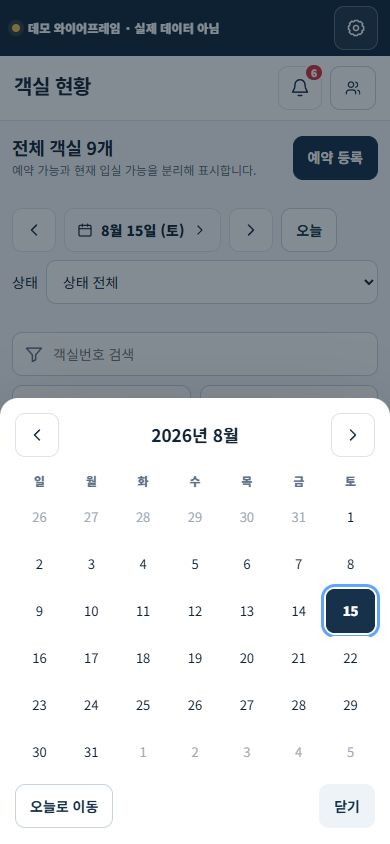
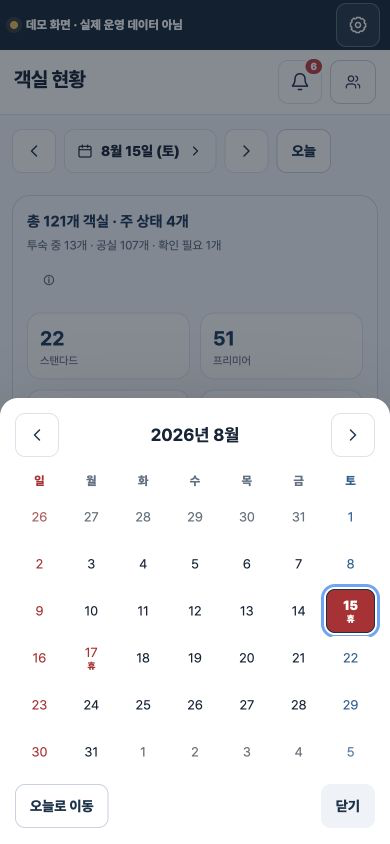
feat: 캘린더 요일 기준을 통일하라

diff --git a/WIREFRAME/index.html b/WIREFRAME/index.html
@@ -694,11 +694,22 @@
     .calendar-head strong { font-size:1.08rem; }
     .calendar-week, .calendar-grid { display:grid; grid-template-columns:repeat(7,minmax(0,1fr)); gap:3px; }
     .calendar-week span { padding:5px 0; color:var(--muted); font-size:12px; font-weight:800; text-align:center; }
-    .calendar-day { min-width:0; min-height:44px; border:0; border-radius:9px; background:#fff; font-size:13px; }
+    .calendar-week .is-sunday, .calendar-week .is-holiday { color:#b4232f; }
+    .calendar-week .is-saturday { color:#1d5f91; }
+    .calendar-day { display:grid; place-items:center; align-content:center; min-width:0; min-height:44px; padding:3px 1px; border:0; border-radius:9px; background:#fff; font-size:13px; line-height:1.05; }
+    .calendar-day.is-sunday, .calendar-day.is-holiday { color:#b4232f; }
+    .calendar-day.is-saturday:not(.is-holiday) { color:#1d5f91; }
     .calendar-day.other { color:#66717c; }
+    .calendar-day.other.is-sunday, .calendar-day.other.is-holiday { color:#a94b55; }
+    .calendar-day.other.is-saturday:not(.is-holiday) { color:#4e7496; }
     .calendar-day.today { box-shadow:inset 0 0 0 1px var(--navy); }
     .calendar-day.selected { color:#fff; background:var(--navy); font-weight:900; }
+    .calendar-day.selected:is(.is-sunday,.is-holiday) { color:#fff; background:#b4232f; }
+    .calendar-day.selected.is-saturday:not(.is-holiday) { color:#fff; background:#1d5f91; }
     .calendar-day.week-selected:not(.selected) { color:#174e78; background:#e5f0fa; font-weight:800; }
+    .calendar-day.week-selected:not(.selected):is(.is-sunday,.is-holiday) { color:#a21f2b; background:#fff0f1; }
+    .calendar-day.week-selected:not(.selected).is-saturday:not(.is-holiday) { color:#175889; background:#edf6ff; }
+    .calendar-holiday-mark { display:block; margin-top:2px; font-size:9px; font-weight:900; line-height:1; letter-spacing:-.02em; }
     .pay-week-calendar-note { margin:-2px 0 10px; color:var(--muted); font-size:12px; text-align:center; }
     .calendar-foot { display:flex; justify-content:space-between; gap:8px; margin-top:10px; }
     .calendar-anchor { position:relative; }
@@ -1398,8 +1409,12 @@
     .quick-room-header span { display:block; color:var(--muted); font-size:10px; font-weight:700; }
     .quick-day-header { display:grid; place-items:center; align-content:center; min-height:58px; padding:5px 2px; border-right:1px solid var(--line); border-bottom:1px solid var(--line-strong); color:#34485e; background:#f8fafc; font-size:11px; line-height:1.25; }
     .quick-day-header strong { font-size:12px; }
-    .quick-day-header.weekend { color:#b43932; background:#fff8f7; }
+    .quick-day-header.is-sunday, .quick-day-header.is-holiday { color:#b4232f; background:#fff7f8; }
+    .quick-day-header.is-saturday:not(.is-holiday) { color:#1d5f91; background:#f4f9ff; }
     .quick-day-header.today { box-shadow:inset 0 -3px 0 #c38a29; color:#7b5209; background:#fff9eb; }
+    .quick-day-header.today:is(.is-sunday,.is-holiday) { color:#a21f2b; background:#fff4f2; }
+    .quick-day-header.today.is-saturday:not(.is-holiday) { color:#175889; background:#edf6ff; }
+    .quick-day-header .calendar-holiday-mark { margin-top:1px; }
     .quick-grid-data-row { min-height:58px; }
     .quick-grid-data-row:hover .quick-room-info, .quick-grid-data-row:hover .quick-date-cell:not(.is-reserved):not(.is-locked) { background:#fbfdff; }
     .quick-room-info { min-height:58px; padding:0; }
@@ -1530,6 +1545,39 @@
       const money = n => new Intl.NumberFormat('ko-KR').format(n) + '원';
       const esc = v => String(v ?? '').replace(/[&<>'"]/g, c => ({'&':'&amp;','<':'&lt;','>':'&gt;',"'":'&#39;','"':'&quot;'}[c]));
       const DEFAULT_CHECKIN_TIME='16:00', DEFAULT_CHECKOUT_TIME='11:00';
+      const CALENDAR_WEEKDAYS=Object.freeze(['일','월','화','수','목','금','토']);
+      const KR_HOLIDAY_FIXTURE=Object.freeze({
+        jurisdiction:'KR',mode:'demo-static',coverage:['2026-01-01','2026-12-31'],verifiedAt:'2026-08-18',
+        sources:Object.freeze([
+          'https://www.kasa.go.kr/bbs/BBSMSTR_000000000010/view.do?nttId=B000000001860Pe2zT3',
+          'https://www.law.go.kr/LSW/lsRvsDocListP.do?chrClsCd=010202&lsId=002404&lsRvsGubun=all',
+          'https://www.nec.go.kr/site/nec/ex/bbs/View.do?bcIdx=289351&cbIdx=1104'
+        ]),
+        dates:Object.freeze({
+          '2026-01-01':{name:'신정',kind:'national'},
+          '2026-02-16':{name:'설날 연휴',kind:'traditional'},
+          '2026-02-17':{name:'설날',kind:'traditional'},
+          '2026-02-18':{name:'설날 연휴',kind:'traditional'},
+          '2026-03-01':{name:'삼일절',kind:'national'},
+          '2026-03-02':{name:'삼일절 대체공휴일',kind:'substitute'},
+          '2026-05-01':{name:'노동절',kind:'national'},
+          '2026-05-05':{name:'어린이날',kind:'national'},
+          '2026-05-24':{name:'부처님오신날',kind:'traditional'},
+          '2026-05-25':{name:'부처님오신날 대체공휴일',kind:'substitute'},
+          '2026-06-03':{name:'제9회 전국동시지방선거',kind:'election'},
+          '2026-06-06':{name:'현충일',kind:'national'},
+          '2026-07-17':{name:'제헌절',kind:'national'},
+          '2026-08-15':{name:'광복절',kind:'national'},
+          '2026-08-17':{name:'광복절 대체공휴일',kind:'substitute'},
+          '2026-09-24':{name:'추석 연휴',kind:'traditional'},
+          '2026-09-25':{name:'추석',kind:'traditional'},
+          '2026-09-26':{name:'추석 연휴',kind:'traditional'},
+          '2026-10-03':{name:'개천절',kind:'national'},
+          '2026-10-05':{name:'개천절 대체공휴일',kind:'substitute'},
+          '2026-10-09':{name:'한글날',kind:'national'},
+          '2026-12-25':{name:'기독탄신일',kind:'national'}
+        })
+      });
 
       function clockTime(value) {
         const matches=[...String(value||'').matchAll(/([01]\d|2[0-3]):([0-5]\d)/g)];
@@ -3253,8 +3301,26 @@
       function dateIso(date) {
         return `${date.getFullYear()}-${String(date.getMonth()+1).padStart(2,'0')}-${String(date.getDate()).padStart(2,'0')}`;
       }
+      function calendarDayMeta(iso) {
+        const value=dateObject(iso),weekday=value.getDay(),holiday=KR_HOLIDAY_FIXTURE.dates[iso]||null,isSunday=weekday===0,isSaturday=weekday===6;
+        return {
+          weekday,weekdayLabel:CALENDAR_WEEKDAYS[weekday],holiday,isSunday,isSaturday,
+          tone:holiday?'holiday':isSunday?'sunday':isSaturday?'saturday':'weekday',
+          classes:[isSunday?'is-sunday':'',isSaturday?'is-saturday':'',holiday?'is-holiday':''].filter(Boolean).join(' ')
+        };
+      }
+      function calendarWeekdayHeaderMarkup() {
+        return CALENDAR_WEEKDAYS.map((label,index)=>`<span class="${index===0?'is-sunday':index===6?'is-saturday':''}">${label}</span>`).join('');
+      }
+      function calendarDateAriaLabel(iso,{today=false,weekSelected=false}={}) {
+        const value=dateObject(iso),meta=calendarDayMeta(iso),parts=[`${value.getFullYear()}년 ${value.getMonth()+1}월 ${value.getDate()}일 ${meta.weekdayLabel}요일`];
+        if(meta.holiday)parts.push(meta.holiday.name);
+        if(today)parts.push('오늘');
+        if(weekSelected)parts.push('선택 주차');
+        return parts.join(', ');
+      }
       function dateLabel(value=state.selectedDate) {
-        const d=dateObject(value), day=['일','월','화','수','목','금','토'][d.getDay()];
+        const d=dateObject(value), day=CALENDAR_WEEKDAYS[d.getDay()];
         return `${d.getMonth()+1}월 ${d.getDate()}일 (${day})`;
       }
       function weekStartIso(value) {
@@ -3299,13 +3365,13 @@
         const constrainedWeekMode=['admin-pay','maid-pay','work-history'].includes(state.calendarContext),weekMode=constrainedWeekMode||state.calendarContext==='reservation-week';
         const weekSelectedStart=state.calendarContext==='admin-pay'?state.adminPayWeek:state.calendarContext==='maid-pay'?(state.maidPaySelectedWeek||state.maidPayOpenWeek||'2026-08-03'):state.calendarContext==='reservation-week'?state.reservationWeekStart:state.workHistoryWeek;
         const latestWeek=state.calendarContext==='work-history'?'2026-08-17':'2026-08-10';
-        const first=new Date(year,month-1,1), offset=weekMode?(first.getDay()+6)%7:first.getDay(), start=new Date(year,month-1,1-offset);
+        const first=new Date(year,month-1,1),offset=first.getDay(),start=new Date(year,month-1,1-offset);
         const days=Array.from({length:42},(_,i)=>{const d=new Date(start);d.setDate(start.getDate()+i);return d;});
         return `<div class="calendar-backdrop" data-action="calendar-backdrop"><section class="calendar-dialog" role="dialog" aria-modal="true" aria-labelledby="calendar-title">
           <div class="calendar-head"><button class="icon-btn" type="button" data-action="calendar-month" data-offset="-1" aria-label="이전 달">${icon('chevronLeft')}</button><strong id="calendar-title">${year}년 ${month}월</strong><button class="icon-btn" type="button" data-action="calendar-month" data-offset="1" aria-label="다음 달">${icon('chevronRight')}</button></div>
           ${weekMode?`<p class="pay-week-calendar-note">날짜를 누르면 그 날짜가 포함된 월요일–일요일 주차를 선택합니다.</p>`:''}
-          <div class="calendar-week" aria-hidden="true">${(weekMode?['월','화','수','목','금','토','일']:['일','월','화','수','목','금','토']).map(v=>`<span>${v}</span>`).join('')}</div>
-          <div class="calendar-grid">${days.map(d=>{const iso=dateIso(d), other=d.getMonth()!==month-1, today=iso==='2026-08-15', weekSelected=weekMode&&weekStartIso(iso)===weekSelectedStart, selected=weekMode?iso===weekSelectedStart:iso===state.selectedDate, future=constrainedWeekMode&&weekStartIso(iso)>latestWeek;return `<button type="button" class="calendar-day ${other?'other':''} ${today?'today':''} ${weekSelected?'week-selected':''} ${selected?'selected':''}" data-action="calendar-select" data-date="${iso}" ${weekMode?`aria-pressed="${weekSelected}"`:`aria-current="${selected?'date':'false'}"`} aria-label="${d.getFullYear()}년 ${d.getMonth()+1}월 ${d.getDate()}일${today?' 오늘':''}${weekSelected?' 선택 주차':''}" ${future?'disabled':''}>${d.getDate()}</button>`;}).join('')}</div>
+          <div class="calendar-week" aria-hidden="true">${calendarWeekdayHeaderMarkup()}</div>
+          <div class="calendar-grid">${days.map(d=>{const iso=dateIso(d),meta=calendarDayMeta(iso),other=d.getMonth()!==month-1,today=iso==='2026-08-15',weekSelected=weekMode&&weekStartIso(iso)===weekSelectedStart,selected=weekMode?iso===weekSelectedStart:iso===state.selectedDate,future=constrainedWeekMode&&weekStartIso(iso)>latestWeek;return `<button type="button" class="calendar-day ${meta.classes} ${other?'other':''} ${today?'today':''} ${weekSelected?'week-selected':''} ${selected?'selected':''}" data-action="calendar-select" data-date="${iso}" ${weekMode?`aria-pressed="${weekSelected}"`:`aria-current="${selected?'date':'false'}"`} aria-label="${esc(calendarDateAriaLabel(iso,{today,weekSelected}))}" ${meta.holiday?`title="${esc(meta.holiday.name)}"`:''} ${future?'disabled':''}><span>${d.getDate()}</span>${meta.holiday?'<small class="calendar-holiday-mark" aria-hidden="true">휴</small>':''}</button>`;}).join('')}</div>
           <div class="calendar-foot">${button(weekMode?'이번 주':'오늘로 이동','calendar-today','outline')}${button('닫기','calendar-close','soft')}</div>
         </section></div>`;
       }
@@ -3450,7 +3516,7 @@
         return `${value.getFullYear()}-${String(value.getMonth()+1).padStart(2,'0')}`;
       }
       function quickMonthLabel(month=state.quickReservationMonth) { const [year,monthNumber]=String(month).split('-').map(Number);return `${year}년 ${monthNumber}월`; }
-      function quickDateLabel(iso) { const value=dateObject(iso),day=['일','월','화','수','목','금','토'][value.getDay()];return `${value.getMonth()+1}월 ${value.getDate()}일 (${day})`; }
+      function quickDateLabel(iso) { const value=dateObject(iso),day=CALENDAR_WEEKDAYS[value.getDay()];return `${value.getMonth()+1}월 ${value.getDate()}일 (${day})`; }
       function quickRangeLabel(reservation) {
         const start=dateObject(reservation.checkInAt.slice(0,10)),end=dateObject(reservation.checkOutAt.slice(0,10));
         return `${start.getMonth()+1}/${start.getDate()} ${reservation.checkInAt.slice(11,16)} → ${end.getMonth()+1}/${end.getDate()} ${reservation.checkOutAt.slice(11,16)}`;
@@ -3704,7 +3770,7 @@
       }
       function renderQuickReservation() {
         const dates=quickMonthDates(),rooms=quickFilteredRooms(),monthReservations=activeReservationsFor(state).filter(item=>reservationInMonth(item)),bookedRooms=new Set(monthReservations.map(item=>item.room)),bookedNights=monthReservations.reduce((total,reservation)=>total+dates.filter(date=>reservationContainsNight(reservation,date)).length,0),blockedRooms=ROOMS.filter(room=>quickRoomBlockReason(room)).length;
-        const headers=dates.map(iso=>{const value=dateObject(iso),weekend=[0,6].includes(value.getDay()),today=iso==='2026-08-16';return `<div class="quick-day-header ${weekend?'weekend':''} ${today?'today':''}" role="columnheader" aria-label="${esc(quickDateLabel(iso))}"><strong>${value.getDate()}일</strong><span>${['일','월','화','수','목','금','토'][value.getDay()]}</span></div>`;}).join('');
+        const headers=dates.map(iso=>{const value=dateObject(iso),meta=calendarDayMeta(iso),today=iso==='2026-08-16';return `<div class="quick-day-header ${meta.classes} ${today?'today':''}" role="columnheader" aria-label="${esc(calendarDateAriaLabel(iso,{today}))}" ${meta.holiday?`title="${esc(meta.holiday.name)}"`:''}><strong>${value.getDate()}일</strong><span>${meta.weekdayLabel}</span>${meta.holiday?'<small class="calendar-holiday-mark" aria-hidden="true">휴</small>':''}</div>`;}).join('');
         const rows=rooms.map((room,rowIndex)=>{const type=ROOM_TYPES[room.type],blocked=quickRoomBlockReason(room);return `<div class="quick-grid-row quick-grid-data-row" role="row" aria-rowindex="${rowIndex+2}" data-quick-row="${room.no}"><div class="quick-room-info ${blocked?'row-locked':''}" role="rowheader"><button class="quick-room-link" type="button" tabindex="${rowIndex===0?'0':'-1'}" data-action="room-detail" data-id="${room.no}" aria-label="${room.no}호 객실 상세 열기"><span class="quick-room-number">${room.no}호</span><span class="quick-room-copy"><strong>${esc(type.name)} · ${esc(room.elevator||'미기재')}</strong>${blocked?`<span class="quick-room-block">${esc(blocked)}</span>`:''}</span></button></div>${dates.map((iso,dayIndex)=>quickCellMarkup(room,iso,rowIndex,dayIndex)).join('')}</div>`;}).join('');
         const grid=rooms.length?`<div class="quick-grid" role="grid" aria-label="${esc(quickMonthLabel())} 객실별 간편 예약" aria-rowcount="${rooms.length+1}" aria-colcount="${dates.length+1}" style="--quick-days:${dates.length}"><div class="quick-grid-row quick-grid-header" role="row"><div class="quick-room-header" role="columnheader">객실 · 유형 · 엘베</div>${headers}</div>${rows}</div>`:`<div class="quick-empty-state"><div><h3>조건에 맞는 객실이 없습니다</h3><p>검색어 또는 객실 유형 필터를 바꿔 주세요.</p></div></div>`;
         return renderCoach()+renderNetworkNotice()+`<div class="quick-booking-page"><section class="card quick-booking-hero"><div class="quick-booking-hero-copy"><span class="quick-booking-kicker">빠른 예약 입력</span><h2>날짜 범위를 한 번에 드래그해 예약을 접수하세요</h2><p>한 번의 드래그는 예약 한 건입니다. 바로 옆을 다시 드래그해도 합쳐지지 않아 1박·1박·연박을 그대로 구분합니다.</p></div><div class="quick-booking-boundary"><strong>데모 와이어프레임 · 실제 데이터 아님</strong>외부 OTA/PMS 예약 원본은 변경하지 않습니다.</div></section><section class="card quick-booking-toolbar" aria-label="간편 예약 필터"><div class="quick-month-tools"><button class="icon-btn" type="button" data-action="quick-month-shift" data-offset="-1" aria-label="이전 달">${icon('chevronLeft')}</button><div class="quick-month-label">${icon('calendar','icon-sm')}${esc(quickMonthLabel())}</div><button class="icon-btn" type="button" data-action="quick-month-shift" data-offset="1" aria-label="다음 달">${icon('chevronRight')}</button><button class="btn btn-outline" type="button" data-action="quick-month-today">오늘</button></div><label class="quick-toolbar-field">객실번호 검색<input class="input-control" type="search" inputmode="numeric" data-control="quick-reservation-search" value="${esc(state.quickReservationSearch)}" placeholder="예: 516" autocomplete="off"></label><label class="quick-toolbar-field">객실 유형<select class="select-control" data-control="quick-reservation-type"><option value="all">유형 전체</option>${Object.entries(ROOM_TYPES).map(([id,type])=>`<option value="${id}" ${state.quickReservationType===id?'selected':''}>${esc(type.name)}</option>`).join('')}</select></label></section><section class="card quick-booking-summary" aria-label="${esc(quickMonthLabel())} 예약 요약"><div><span>예약 건수</span><strong>${monthReservations.length}건</strong><small>각 드래그 1건</small></div><div><span>예약 객실</span><strong>${bookedRooms.size}개</strong><small>전체 ${ROOMS.length}개</small></div><div><span>숙박 칸</span><strong>${bookedNights}박</strong><small>선택한 달 기준</small></div></section><div class="quick-booking-guide"><div class="quick-booking-guide-copy"><strong>마우스: 클릭·드래그 / 터치: 0.35초 길게 누른 뒤 같은 행에서 가로 드래그</strong>바로 가로 스와이프하면 날짜표만 이동합니다. 세로로 움직이면 선택을 취소하고 화면만 스크롤합니다. 손을 뗄 때 등록되며 10초 동안 실행 취소할 수 있습니다.</div><div class="quick-booking-legend" aria-label="예약 상태 범례"><span class="quick-legend-item"><i class="quick-legend-swatch single">1박</i>별도 1박</span><span class="quick-legend-item"><i class="quick-legend-swatch multi">연박</i>하나의 연박</span><span class="quick-legend-item"><i class="quick-legend-swatch locked">${icon('lock','icon-sm')}</i>예약 불가</span><span class="quick-legend-item"><i class="quick-legend-swatch preview"></i>선택 중</span></div></div><section class="card quick-grid-shell"><div class="quick-grid-status"><strong>${esc(quickMonthLabel())}</strong><span>표시 ${rooms.length}개 객실 · 예약 불가 객실 ${blockedRooms}개</span><span class="quick-status-spacer"></span><span>객실정보 열·날짜 행 고정 · 날짜 영역만 가로 스크롤</span></div><div id="quick-grid-scroller" class="quick-grid-scroller" tabindex="0" aria-label="객실 예약표 스크롤 영역">${grid}</div></section></div>`;

diff --git a/WIREFRAME/QA.md b/WIREFRAME/QA.md
@@ -375,7 +375,7 @@
 
 1. 배정 상단 `주간 근무 기록`에서 `메이드 → 근무 기록`으로 이동했다.
 2. 기본 선택인 2026-08-10–16에서 `가능 제출 메이드 3명 / 메이드별 가능일 합계 15일`, `담당 통보 메이드 3명 / 메이드별 배정일 합계 12일`, `실제 근무 메이드 3명 / 메이드별 실근무일 합계 11일`을 확인했다. 사람 수는 `명`, 메이드별 날짜 합계는 `일`로 분리된다.
-3. `조회 주차` 버튼을 열자 월요일–일요일 순서의 월간 달력이 표시됐고, 8월 5일을 누르면 그 날짜가 속한 2026-08-03–09 주차로 전환됐다. 2026-08-24 이후 주차는 선택할 수 없게 잠겼다.
+3. `조회 주차` 버튼을 열자 일요일–토요일 고정 열의 42칸 월간 달력이 표시됐고, 8월 5일을 누르면 그 날짜가 속한 2026-08-03–09 운영 주차로 전환됐다. 2026-08-24 이후 주차는 선택할 수 없게 잠겼다.
 4. 2026-08-03–09에서 메이드를 김민지2로 바꾸자 인물 카드가 1개로 줄고 세 요약이 각각 `1명`, 날짜 합계는 가능 5일·배정 4일·실근무 4일로 바뀌었다.
 5. 달력에서 7월로 이동한 뒤 브라우저 뒤로가기로 닫고 앞으로가기로 다시 열었을 때 7월과 월–일 주차 문맥이 복원됐다. 복원된 달력의 7월 29일을 선택하면 2026-07-27–08-02 주차가 표시됐고, `Escape`로 닫은 뒤 포커스가 `조회 주차` 버튼으로 돌아왔다.
 6. 360·390·768·1440px에서 가로 넘침 0건, 이름 없는 표시 컨트롤 0건, 표시 버튼 최소 크기 44px를 확인했다. 390px 달력도 너비 390px 안에서 가로 넘침 없이 표시됐다.
@@ -530,13 +530,29 @@
 |---|---|---|
 | 카드형 목록 주간 집계 | 통과 | 516호 카드는 전체 과거 누계 대신 가장 가까운 예약 주차 `8/17–8/23 예약 4건`을 표시했다. 같은 달의 간편 예약표에는 4개 예약 ID와 숙박 날짜 셀 6개가 계속 남아 있음을 확인했다. |
 | 이전·다음 주 이동 | 통과 | 예약 상세의 `〈 8월 17일(월)–23일(일) 〉`에서 양쪽 44×44px 버튼으로 8월 3–9일 → 10–16일 → 17–23일을 한 주씩 이동했다. 이동 뒤 같은 방향 버튼으로 포커스가 복원됐다. |
-| 주차 선택 달력 | 통과 | 가운데 날짜 버튼을 누르면 월요일부터 시작하는 2026년 8월 달력이 열리고 8월 17–23일 전체가 선택 주차로 표시됐다. 8월 8일을 선택하자 8월 3–9일 기록으로 돌아왔으며, `Escape`는 예약 상세의 같은 주차 버튼으로 포커스를 복원했다. 미래 주차도 선택 가능했다. |
+| 주차 선택 달력 | 통과 | 가운데 날짜 버튼을 누르면 `일·월·화·수·목·금·토` 순서의 2026년 8월 달력이 열렸다. 8월 17–22일은 한 행, 23일 일요일은 다음 행 첫 칸에 표시됐지만 7일 전체가 같은 8월 17–23일 선택 주차로 유지됐다. 8월 8일을 선택하자 8월 3–9일 기록으로 돌아왔으며, `Escape`는 예약 상세의 같은 주차 버튼으로 포커스를 복원했다. 미래 주차도 선택 가능했다. |
 | 한 주 예약 범위 | 통과 | 516호 8월 17–23일에는 별도 1박 두 건·3박 한 건·후속 1박 한 건만 14px 행으로 표시했다. 예약 구간은 `[체크인, 체크아웃)` 겹침으로 판정하므로 여러 주에 걸친 예약도 해당 주마다 확인하는 정적 분기를 함께 확인했다. |
 | 과거 예약 기록 읽기 전용 | 통과 | 8월 3–9일 과거 주차는 `지난 예약 기록 · 조회만 가능`으로 표시하고 예약 입력 폼·수정 저장·예약 취소 버튼을 모두 0개로 유지했다. 운영 날짜를 8월 31일로 옮긴 뒤 516호 카드는 `지난 예약 기록 4건`을 표시했고, 오프라인에서도 열어 8월 17–23일 네 기록만 조회할 수 있었다. 미래 예약을 8월 12–13일의 이미 끝난 일정으로 옮기는 저장은 거부했고 기존 4건을 유지했다. |
 | 카드·간편 예약표 공통 접근 | 통과 | 카드의 주간 예약 버튼과 간편 예약표의 개별 예약 칸 모두 같은 주간 상세를 열었다. 간편 예약표 자체는 8월 전체 예약을 계속 표시해 미래 예약 누락이나 중복 접수를 만들지 않았다. |
 | 360·390·768·1440px | 통과 | 네 너비 모두 문서와 예약 모달 가로 넘침 0px이었다. 주차 양쪽 버튼은 모두 44×44px, 가운데 날짜 버튼은 최소 44px, 예약 행 글자는 14px로 확인했다. 360px 모달 360px, 390px 모달 390px, 768px 모달 732px, 1440px 모달 760px였다. |
 | 키보드·새로고침·뒤로가기·콘솔 | 통과 | 주차 버튼은 `Enter`로 열리고 달력 `Escape`는 예약 상세로 돌아왔다. 516호 8월 17–23일의 예약 상세를 새로고침해도 선택 예약·주차·4건을 복원했다. 전체 흐름과 네 반응형 너비에서 warning/error 0건, 단일 인라인 스크립트 `new Function` 구문 분석 통과를 확인했다. |
 | 대표 PNG | 통과 | `admin-reservation-week-1440.png`, `admin-reservation-week-390.png`, `admin-reservation-week-calendar-1440.png`, `admin-reservation-week-calendar-390.png`을 실제 브라우저에서 저장하고 시각 확인했다. |
+
+## 추가 검증 · 전체 캘린더 일요일–토요일 고정 열
+
+> 2026-08-18 로컬 HTTP의 인앱 브라우저에서 객실 날짜, 관리자 주급, 메이드 주급, 근무 기록, 예약 주차 달력과 간편 예약 날짜표를 확인했다. 대한민국 공휴일은 2026년 정적 데모 fixture이며 실시간 공휴일 서비스가 아니다.
+
+| 항목 | 결과 | 실제 확인 내용 |
+|---|---|---|
+| 공통 요일 열·월 배치 | 통과 | 다섯 월간 달력 문맥 모두 헤더가 정확히 `일월화수목금토`였다. 2026년 8월 42칸은 첫 칸 `7/26`, 첫 행 마지막 `8/1`, 마지막 행 첫 칸 `8/30`, 마지막 칸 `9/5`로 고정됐다. |
+| 일요일·토요일·공휴일 | 통과 | 8/16·8/23 일요일 빨간색, 8/15 광복절·8/17 대체공휴일 빨간색, 8/22 일반 토요일 파란색을 계산 스타일로 확인했다. 토요일인 8/15도 공휴일 빨간색이 우선했고, 공휴일이 아닌 8/14 말복·8/19 칠석은 평일색을 유지했다. 인접 월의 일요일·토요일도 흰 배경 대비 각각 5.49:1·4.93:1을 확보한 최종 색으로 대표 PNG를 다시 저장했다. |
+| 비색상 표식 | 통과 | 광복절·대체공휴일 날짜 안에 `휴`가 보이고, 공휴일 접근성 이름은 각각 `광복절`, `광복절 대체공휴일`을 포함했다. 7월로 이동해 제헌절도 빨간색·`휴`·공휴일명으로 표시되는지 확인했다. |
+| 선택 주차 두 행 강조 | 통과 | 8/17–23 운영 주차는 17–22일 뒤 23일 일요일이 다음 행 첫 칸으로 내려가도 7개 셀 모두 `aria-pressed=true`였다. 8/23을 눌러도 예약 주차 값은 `2026년 8월 17일(월)–23일(일)`로 유지돼 기존 월요일–일요일 업무 주 계산이 바뀌지 않았다. |
+| 간편 예약 날짜표 | 통과 | 날짜 헤더에서 8/15·16·17은 빨간색, 8/22는 파란색이고 8/15·17에는 `휴`가 표시됐다. 360·390·768·1440px 모두 헤더 높이 58px 안에서 내용 넘침 0, 문서 가로 넘침 0이었으며 날짜 영역의 내부 가로 스크롤만 유지됐다. |
+| 360·390·768·1440px | 통과 | 네 너비 모두 월간 달력 7열, 42칸, 셀 최소 높이 44px, 문서·대화상자 가로 넘침 0이었다. 360/390px 달력 너비는 각각 360/390px, 768/1440px에서는 최대 420px였다. |
+| 키보드·포커스·이력 | 통과 | 주차 버튼을 키보드로 열고 선택일에 초기 포커스를 두며, 마지막 `닫기`에서 `Tab`은 첫 `이전 달`로, 첫 버튼에서 `Shift+Tab`은 `닫기`로 순환했다. `Escape`는 원래 주차 버튼으로 포커스를 복원했고, 뒤로가기는 달력만 닫고 앞으로가기는 같은 7월·일요일 우선 열을 복원했다. |
+| 정적·콘솔 | 통과 | 공통 `CALENDAR_WEEKDAYS`, `calendarDayMeta()`, 2026 대한민국 공휴일 fixture와 향후 캘린더 계약을 정적으로 검사했다. 단일 인라인 스크립트 구문 분석, `git diff --check`, 브라우저 warning/error 0건을 확인했다. |
+| 대표 PNG | 통과 | `admin-calendar-standard-1440.png`, `admin-calendar-standard-390.png`, `admin-reservation-week-calendar-1440.png`, `admin-reservation-week-calendar-390.png`, `admin-weekly-work-history-calendar-1440.png`, `admin-weekly-work-history-calendar-390.png`, `admin-mobile-pay-calendar.png`, `admin-mobile-calendar.png`, `admin-quick-booking-1440.png`, `admin-quick-booking-390.png`을 실제 브라우저 캡처 후 실제 PNG로 저장했다. |
 
 ## 시각 비교 기록
 
@@ -573,8 +589,10 @@
 - `QA/screenshots/admin-reservation-cancel-390.png`: 같은 취소 영향과 최종 확인 행동을 44px 버튼으로 적층한 모바일 바텀시트 390×844 · 실제 브라우저 캡처
 - `QA/screenshots/admin-reservation-week-1440.png`: 516호의 8월 17–23일 예약 네 건과 이전·다음 주 탐색을 함께 보여 주는 데스크톱 대화상자 1440×1000 · 실제 브라우저 캡처
 - `QA/screenshots/admin-reservation-week-390.png`: 같은 주간 예약 네 건과 44px 주차 이동 버튼을 보여 주는 모바일 바텀시트 390×844 · 실제 브라우저 캡처
-- `QA/screenshots/admin-reservation-week-calendar-1440.png`: 날짜 한 번 선택으로 월요일–일요일 주차를 고르는 데스크톱 달력 1440×1000 · 실제 브라우저 캡처
-- `QA/screenshots/admin-reservation-week-calendar-390.png`: 8월 17–23일 선택 주차가 한 줄로 표시된 모바일 달력 390×844 · 실제 브라우저 캡처
+- `QA/screenshots/admin-calendar-standard-1440.png`: 일요일–토요일 고정 열, 공휴일 `휴`, 토요일 파란색과 8월 17–23일 두 행 주차 강조를 함께 보여 주는 데스크톱 달력 1440×1000 · 실제 브라우저 캡처
+- `QA/screenshots/admin-calendar-standard-390.png`: 같은 공통 달력 규칙을 보여 주는 모바일 바텀시트 390×844 · 실제 브라우저 캡처
+- `QA/screenshots/admin-reservation-week-calendar-1440.png`: 날짜 한 번 선택으로 월요일–일요일 운영 주차를 고르되 일요일–토요일 열을 유지하는 데스크톱 달력 1440×1000 · 실제 브라우저 캡처
+- `QA/screenshots/admin-reservation-week-calendar-390.png`: 8월 17–22일과 다음 행 23일이 같은 선택 주차로 표시된 모바일 달력 390×844 · 실제 브라우저 캡처
 - `QA/screenshots/admin-room-catalog-1440.png`: 8월 객실 마스터 121개·타입별 22/51/13/35개 요약과 762호 B 엘리베이터·투숙 상태 확인 필요 표시 1440×1000 · 실제 브라우저 캡처
 - `QA/screenshots/admin-room-catalog-390.png`: 같은 객실 마스터 요약과 모바일 객실 카드 390×844
 - `QA/screenshots/admin-available-room-edit-390.png`: 516호 고객 배정 가능 객실의 기존 카드·상세 편집 구성 모바일 390×844 · 실제 브라우저 캡처
@@ -599,8 +617,8 @@
 - `QA/screenshots/admin-auto-early-late-390.png`: 한 예약 ID의 체크인→체크아웃 순서와 기본 16:00·11:00 자동 판정이 보이는 모바일 예약 바텀시트 390×1000
 - `QA/screenshots/admin-weekly-work-history-1440.png`: `메이드 3명`과 메이드별 날짜 합계 `15일·12일·11일`을 분리한 근무 기록 데스크톱 1440×1000
 - `QA/screenshots/admin-weekly-work-history-390.png`: 월–일 조회 주차 버튼과 `명 / 일` 분리 요약을 쌓아 표시한 근무 기록 모바일 390×844
-- `QA/screenshots/admin-weekly-work-history-calendar-1440.png`: 2026년 8월 월간 달력에서 8월 10–16일 주차를 한 줄로 선택한 데스크톱 1440×1000
-- `QA/screenshots/admin-weekly-work-history-calendar-390.png`: 월요일–일요일 주차 선택과 이후 주차 잠금이 보이는 모바일 바텀시트 390×844
+- `QA/screenshots/admin-weekly-work-history-calendar-1440.png`: 일요일–토요일 고정 열의 2026년 8월 달력에서 8월 10–16일 운영 주차를 두 행으로 선택한 데스크톱 1440×1000
+- `QA/screenshots/admin-weekly-work-history-calendar-390.png`: 같은 두 행 주차 선택과 이후 주차 잠금이 보이는 모바일 바텀시트 390×844
 - `QA/screenshots/maid-weekly-availability-390.png`: 메이드 다음 주 가능일 모바일 390×844
 - `QA/screenshots/admin-type-photo-template-1440.png`: 관리자 4타입 청소 템플릿·참고 객실·활성 버전 1440px 확인
 - `QA/screenshots/maid-type-photo-template-390.png`: 메이드 528호 프리미어 퇴실 청소 v5·레이아웃 확인 보류·최소 공통 촬영 슬롯을 체크와 분리해 보여 준 이전 화면 참고 · 현재 사진 전용 검증 근거 아님
